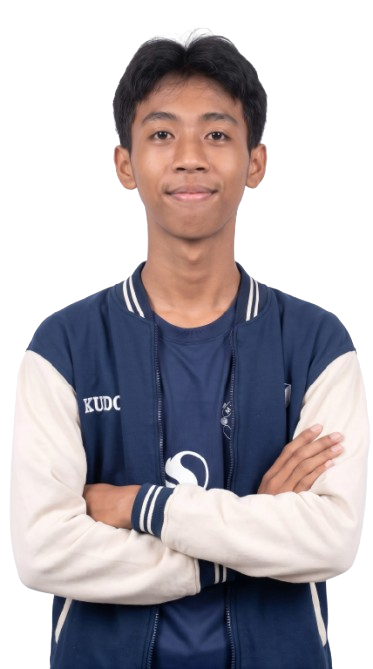
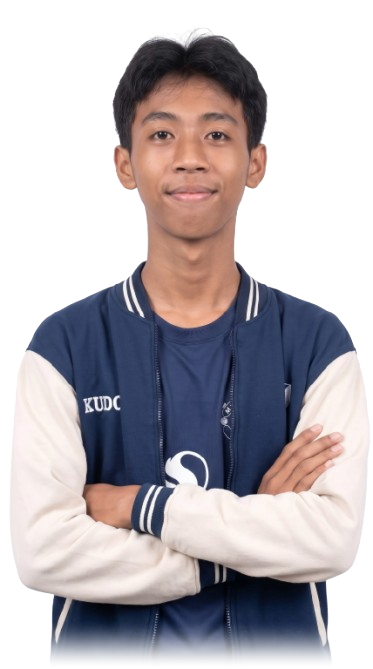
fix(ui): eliminate profile shadow clipping, remove top badge, soften celestial canvas contrast, and enlarge hero typography

Changed region(s): [[0.118, 0.9268, 0.9142, 1.0]]

diff --git a/components/sections/HeroSection.tsx b/components/sections/HeroSection.tsx
@@ -48,18 +48,12 @@ export const HeroSection: React.FC<HeroSectionProps> = ({ profile }) => {
       <div className="relative max-w-6xl mx-auto px-4 sm:px-6 lg:px-8 w-full">
         <div className="grid grid-cols-1 lg:grid-cols-12 gap-6 lg:gap-8 items-end">
           {/* Kolom Kiri: Tentang Saya & Profil Personal (Render Instan untuk Skor LCP Mobile <1.8s) */}
-          <div className="lg:col-span-7 flex flex-col items-start z-10 space-y-4 sm:space-y-5 self-center pt-2 pb-6 sm:pb-8">
-            {/* Status Ketersediaan Kerja (Sinyal Positif untuk HRD & Tech Recruiter) */}
-            <div className="inline-flex items-center gap-2 px-3 py-1 rounded-full bg-emerald-500/10 border border-emerald-500/30 text-emerald-700 dark:text-emerald-400 text-[10px] sm:text-[11px] font-mono font-semibold tracking-wider select-none shadow-sm backdrop-blur-sm">
-              <span className="relative flex h-2 w-2">
-                <span className="animate-ping absolute inline-flex h-full w-full rounded-full bg-emerald-400 opacity-75" />
-                <span className="relative inline-flex rounded-full h-2 w-2 bg-emerald-500" />
-              </span>
-              <span>TERBUKA UNTUK MAGANG &amp; KERJA • DEPOK / JAKARTA &amp; REMOTE</span>
-            </div>
+          <div className="lg:col-span-7 flex flex-col items-start z-10 space-y-4 sm:space-y-6 self-center pt-2 pb-6 sm:pb-8 relative">
+            {/* Subtle Readability Ambient Backlight: menjaga keterbacaan teks tanpa menutupi estetika kosmik */}
+            <div className="absolute -inset-4 sm:-inset-6 bg-white/40 dark:bg-void-950/35 rounded-3xl blur-2xl -z-10 pointer-events-none" />
 
             {/* Nama & Subjudul Tipografi Cinzel Serasi */}
-            <div className="space-y-1">
+            <div className="space-y-1.5">
               <h1
                 onClick={() => {
                   if (typeof window !== 'undefined') {
@@ -67,82 +61,82 @@ export const HeroSection: React.FC<HeroSectionProps> = ({ profile }) => {
                     window.dispatchEvent(new CustomEvent('trigger-splash'));
                   }
                 }}
-                className="text-4xl sm:text-5xl lg:text-6xl font-serif font-extrabold text-brass dark:text-parchment tracking-tight cursor-pointer hover:opacity-90 transition-opacity select-none"
+                className="text-5xl sm:text-6xl lg:text-7xl font-serif font-extrabold text-brass dark:text-parchment tracking-tight cursor-pointer hover:opacity-90 transition-opacity select-none"
                 title="Tampilkan Animasi Splash"
               >
                 {profile.name}
               </h1>
-              <p className="font-serif text-xs sm:text-sm font-medium tracking-[0.25em] uppercase text-brass dark:text-brass-light">
+              <p className="font-serif text-sm sm:text-base font-semibold tracking-[0.25em] uppercase text-brass dark:text-brass-light">
                 {profile.title || 'Software Engineer & Web Developer'}
               </p>
             </div>
 
             {/* Narasi Biografi Tentang Saya (Lugas & Autentik) */}
-            <div className="space-y-2.5 text-sm sm:text-base text-parchment-dim font-sans leading-relaxed max-w-xl">
+            <div className="space-y-3 text-base sm:text-lg text-parchment-dim font-sans leading-relaxed max-w-xl">
               {profile.bio && profile.bio.length > 0 ? (
                 profile.bio.map((para, idx) => (
-                  <p key={idx} className="relative pl-4 border-l border-brass/30">
+                  <p key={idx} className="relative pl-4 border-l-2 border-brass/40">
                     {para}
                   </p>
                 ))
               ) : (
-                <p className="relative pl-4 border-l border-brass/30">
+                <p className="relative pl-4 border-l-2 border-brass/40">
                   Hello, Saya Muhammad Dzikry Fikry, seorang Software Engineer &amp; Web Developer yang berfokus pada pengembangan sistem web full-stack, integrasi CMS modern, serta arsitektur backend yang rapi dan terukur.
                 </p>
               )}
             </div>
 
             {/* Tombol Aksi (Kapsul Melengkung Halus & Kontras Tinggi) */}
-            <div className="pt-1 flex flex-col sm:flex-row flex-wrap items-stretch sm:items-center gap-3 sm:gap-4 w-full">
+            <div className="pt-2 flex flex-col sm:flex-row flex-wrap items-stretch sm:items-center gap-3.5 sm:gap-4 w-full">
               <Link
                 href="/proyek"
                 onClick={handleExploreProjects}
-                className="group inline-flex items-center justify-center gap-2 px-6 py-2.5 sm:px-7 sm:py-3 rounded-full border border-brass bg-brass text-white dark:text-void-950 font-mono text-xs font-bold uppercase tracking-widest hover:bg-brass-light transition-all duration-200 shadow-brass-glow active:scale-95"
+                className="group inline-flex items-center justify-center gap-2 px-7 py-3 sm:px-8 sm:py-3.5 rounded-full border border-brass bg-brass text-white dark:text-void-950 font-mono text-xs sm:text-sm font-bold uppercase tracking-widest hover:bg-brass-light transition-all duration-200 shadow-brass-glow active:scale-95"
               >
                 <span>LIHAT PROYEK</span>
-                <ArrowRight className="w-4 h-4 transition-transform group-hover:translate-x-1" />
+                <ArrowRight className="w-4 h-4 sm:w-4.5 sm:h-4.5 transition-transform group-hover:translate-x-1" />
               </Link>
 
               <a
                 href={mailtoHref}
-                className="inline-flex items-center justify-center gap-2 px-6 py-2.5 sm:px-7 sm:py-3 rounded-full border border-brass/50 bg-white dark:bg-black text-slate-900 dark:text-parchment font-mono text-xs font-bold uppercase tracking-widest hover:border-brass hover:text-brass transition-all duration-200 shadow-sm dark:shadow-md dark:shadow-black active:scale-95"
+                className="inline-flex items-center justify-center gap-2 px-7 py-3 sm:px-8 sm:py-3.5 rounded-full border border-brass/50 bg-white dark:bg-black text-slate-900 dark:text-parchment font-mono text-xs sm:text-sm font-bold uppercase tracking-widest hover:border-brass hover:text-brass transition-all duration-200 shadow-sm dark:shadow-md dark:shadow-black active:scale-95"
               >
-                <Mail className="w-4 h-4 text-brass" />
+                <Mail className="w-4 h-4 sm:w-4.5 sm:h-4.5 text-brass" />
                 <span>HUBUNGI SAYA</span>
               </a>
             </div>
 
             {/* Deretan Link Ikonik Minimalis (GitHub, LinkedIn, Email) */}
-            <div className="pt-1 flex flex-wrap items-center gap-2 sm:gap-2.5 text-parchment-dim font-mono text-xs">
+            <div className="pt-1.5 flex flex-wrap items-center gap-2.5 sm:gap-3 text-parchment-dim font-mono text-xs sm:text-sm">
               <a
                 href={githubUrl}
                 target="_blank"
                 rel="noopener noreferrer"
-                className="group inline-flex items-center gap-2 px-3.5 py-1.5 rounded-full border border-brass/25 bg-white/70 dark:bg-void-950/70 hover:border-brass hover:bg-brass/10 hover:text-brass transition-all duration-200 shadow-sm"
+                className="group inline-flex items-center gap-2 px-4 py-2 rounded-full border border-brass/25 bg-white/70 dark:bg-void-950/70 hover:border-brass hover:bg-brass/10 hover:text-brass transition-all duration-200 shadow-sm"
                 title="Profil GitHub"
               >
-                <Github className="w-3.5 h-3.5 text-brass group-hover:scale-110 transition-transform" />
-                <span className="font-semibold text-[11px] tracking-wider uppercase">GitHub</span>
+                <Github className="w-4 h-4 text-brass group-hover:scale-110 transition-transform" />
+                <span className="font-semibold text-xs tracking-wider uppercase">GitHub</span>
               </a>
 
               <a
                 href={linkedinUrl}
                 target="_blank"
                 rel="noopener noreferrer"
-                className="group inline-flex items-center gap-2 px-3.5 py-1.5 rounded-full border border-brass/25 bg-white/70 dark:bg-void-950/70 hover:border-brass hover:bg-brass/10 hover:text-brass transition-all duration-200 shadow-sm"
+                className="group inline-flex items-center gap-2 px-4 py-2 rounded-full border border-brass/25 bg-white/70 dark:bg-void-950/70 hover:border-brass hover:bg-brass/10 hover:text-brass transition-all duration-200 shadow-sm"
                 title="Profil LinkedIn"
               >
-                <Linkedin className="w-3.5 h-3.5 text-brass group-hover:scale-110 transition-transform" />
-                <span className="font-semibold text-[11px] tracking-wider uppercase">LinkedIn</span>
+                <Linkedin className="w-4 h-4 text-brass group-hover:scale-110 transition-transform" />
+                <span className="font-semibold text-xs tracking-wider uppercase">LinkedIn</span>
               </a>
 
               <a
                 href={mailtoHref}
-                className="group inline-flex items-center gap-2 px-3.5 py-1.5 rounded-full border border-brass/25 bg-white/70 dark:bg-void-950/70 hover:border-brass hover:bg-brass/10 hover:text-brass transition-all duration-200 shadow-sm"
+                className="group inline-flex items-center gap-2 px-4 py-2 rounded-full border border-brass/25 bg-white/70 dark:bg-void-950/70 hover:border-brass hover:bg-brass/10 hover:text-brass transition-all duration-200 shadow-sm"
                 title="Kirim Email"
               >
-                <Mail className="w-3.5 h-3.5 text-brass group-hover:scale-110 transition-transform" />
-                <span className="font-semibold text-[11px] tracking-wider uppercase">Email</span>
+                <Mail className="w-4 h-4 text-brass group-hover:scale-110 transition-transform" />
+                <span className="font-semibold text-xs tracking-wider uppercase">Email</span>
               </a>
             </div>
           </div>

diff --git a/components/celestial/MilkyWayGalaxy.tsx b/components/celestial/MilkyWayGalaxy.tsx
@@ -565,7 +565,7 @@ export const MilkyWayGalaxy: React.FC<MilkyWayGalaxyProps> = ({
       // Garis Orbit Utama Bumi (Dengan Penanda Musim Kardinal)
       ctx.beginPath();
       ctx.ellipse(0, 0, baseRx, baseRy, 0, 0, Math.PI * 2);
-      ctx.strokeStyle = isLight ? 'rgba(2, 132, 199, 0.38)' : 'rgba(197, 160, 89, 0.25)';
+      ctx.strokeStyle = isLight ? 'rgba(2, 132, 199, 0.20)' : 'rgba(197, 160, 89, 0.25)';
       ctx.lineWidth = 1;
       ctx.setLineDash([4, 6]);
       ctx.stroke();
@@ -580,7 +580,7 @@ export const MilkyWayGalaxy: React.FC<MilkyWayGalaxyProps> = ({
       ];
 
       ctx.font = '8px "Cinzel", serif';
-      ctx.fillStyle = isLight ? 'rgba(2, 132, 199, 0.85)' : 'rgba(197, 160, 89, 0.45)';
+      ctx.fillStyle = isLight ? 'rgba(2, 132, 199, 0.40)' : 'rgba(197, 160, 89, 0.45)';
       ctx.textAlign = 'center';
       for (const m of markers) {
         const mx = Math.cos(m.angle) * baseRx;
@@ -634,14 +634,14 @@ export const MilkyWayGalaxy: React.FC<MilkyWayGalaxyProps> = ({
         ctx.stroke();
       }
 
-      // Sun Label & Jarak dari Bumi (1.00 AU)
-      ctx.font = 'bold 10px "Cinzel", serif';
-      ctx.fillStyle = isLight ? '#B45309' : '#FDE68A';
+      // Sun Label & Jarak dari Bumi (1.00 AU) - lembut dan tidak mengganggu konten teks
+      ctx.font = 'bold 9.5px "Cinzel", serif';
+      ctx.fillStyle = isLight ? 'rgba(180, 83, 9, 0.50)' : '#FDE68A';
       ctx.textAlign = 'center';
       ctx.fillText('MATAHARI', 0, sunRadius + 18);
 
-      ctx.font = '8px "Cinzel", serif';
-      ctx.fillStyle = isLight ? 'rgba(120, 53, 15, 0.85)' : 'rgba(230, 202, 126, 0.75)';
+      ctx.font = '7.5px "Cinzel", serif';
+      ctx.fillStyle = isLight ? 'rgba(120, 53, 15, 0.40)' : 'rgba(230, 202, 126, 0.65)';
       ctx.fillText('1.00 AU DARI BUMI', 0, sunRadius + 29);
 
       // ------------------------------------------
@@ -1293,15 +1293,18 @@ export const MilkyWayGalaxy: React.FC<MilkyWayGalaxyProps> = ({
           ctx.stroke();
         }
 
-        // Label Planet dan Jarak Real-Time dari Bumi
+        // Label Planet dan Jarak Real-Time dari Bumi (Soft di mode Light agar tidak menabrak teks Hero)
+        ctx.save();
+        if (isLight) ctx.globalAlpha = 0.55;
         ctx.font = 'bold 8px "Cinzel", serif';
         ctx.fillStyle = isLight ? p.lightTextColor : p.darkTextColor;
         ctx.textAlign = 'center';
         ctx.fillText(p.name, 0, p.radius + 14);
 
         ctx.font = '6.5px "Cinzel", serif';
-        ctx.fillStyle = isLight ? 'rgba(51, 65, 85, 0.75)' : 'rgba(230, 202, 126, 0.65)';
+        ctx.fillStyle = isLight ? 'rgba(51, 65, 85, 0.70)' : 'rgba(230, 202, 126, 0.65)';
         ctx.fillText(distText, 0, p.radius + 23);
+        ctx.restore();
 
         ctx.restore();
       });
@@ -1463,14 +1466,17 @@ export const MilkyWayGalaxy: React.FC<MilkyWayGalaxyProps> = ({
       ctx.shadowBlur = 0;
 
       // Label Bumi
+      ctx.save();
+      if (isLight) ctx.globalAlpha = 0.55;
       ctx.font = 'bold 9px "Cinzel", serif';
       ctx.fillStyle = isLight ? '#0369A1' : '#7DD3FC';
       ctx.textAlign = 'center';
       ctx.fillText('BUMI', 0, earthRadius + 15);
 
       ctx.font = '7px "Cinzel", serif';
-      ctx.fillStyle = isLight ? 'rgba(55, 65, 81, 0.85)' : 'rgba(237, 231, 216, 0.7)';
+      ctx.fillStyle = isLight ? 'rgba(55, 65, 81, 0.75)' : 'rgba(237, 231, 216, 0.7)';
       ctx.fillText('ROTASI: 23.5°', 0, earthRadius + 24);
+      ctx.restore();
 
       ctx.restore(); // Akhir transformasi Bumi
       ctx.restore(); // Akhir transformasi Orbit Pusat Matahari

diff --git a/components/celestial/HeroPortrait.tsx b/components/celestial/HeroPortrait.tsx
@@ -20,10 +20,10 @@ export const HeroPortrait: React.FC<HeroPortraitProps> = ({ profile }) => {
 
   return (
     <div className="relative w-full flex items-end justify-center lg:justify-end self-end pointer-events-none select-none">
-      {/* Frameless Cutout Image Container dengan padding lapang agar shadow tidak terpotong & CSS Gradient Mask pada bagian bawah */}
+      {/* Frameless Cutout Image Container: bebas mask-image & overflow-visible agar shadow tidak terpotong garis horizontal */}
       <motion.div
         style={{ y: yParallax }}
-        className="relative w-full max-w-[320px] sm:max-w-[380px] md:max-w-[420px] lg:max-w-[460px] flex items-end justify-center lg:justify-end pt-8 sm:pt-10 px-6 sm:px-8 pb-0 [mask-image:linear-gradient(to_bottom,black_80%,transparent_100%)] [-webkit-mask-image:linear-gradient(to_bottom,black_80%,transparent_100%)]"
+        className="relative w-full max-w-[320px] sm:max-w-[380px] md:max-w-[420px] lg:max-w-[460px] flex items-end justify-center lg:justify-end pb-0 overflow-visible"
       >
         <Image
           src={imgSrc}
@@ -38,7 +38,7 @@ export const HeroPortrait: React.FC<HeroPortraitProps> = ({ profile }) => {
               setImgSrc('/profile.png');
             }
           }}
-          className="w-full h-auto max-h-[390px] sm:max-h-[440px] md:max-h-[480px] lg:max-h-[510px] object-contain object-bottom drop-shadow-[0_10px_20px_rgba(2,132,199,0.18)] drop-shadow-[0_16px_30px_rgba(15,23,42,0.12)] dark:drop-shadow-[0_16px_35px_rgba(0,0,0,0.7)] dark:drop-shadow-[0_0_30px_rgba(197,160,89,0.12)]"
+          className="w-full h-auto max-h-[390px] sm:max-h-[440px] md:max-h-[480px] lg:max-h-[510px] object-contain object-bottom drop-shadow-[0_8px_20px_rgba(2,132,199,0.14)] drop-shadow-[0_16px_30px_rgba(15,23,42,0.08)] dark:drop-shadow-[0_16px_35px_rgba(0,0,0,0.7)] dark:drop-shadow-[0_0_30px_rgba(197,160,89,0.14)]"
         />
       </motion.div>
     </div>

diff --git a/components/sections/TechStackSection.tsx b/components/sections/TechStackSection.tsx
@@ -51,7 +51,7 @@ export const TechStackSection: React.FC<TechStackSectionProps> = ({ techStack })
   return (
     <section
       id="tech-stack"
-      className="relative py-4 sm:py-5 border-y border-brass/15 bg-white/[0.02] dark:bg-void-950/[0.25] backdrop-blur-[2px] overflow-hidden select-none"
+      className="relative py-4 sm:py-5 border-y border-brass/15 bg-white/[0.02] dark:bg-void-950/[0.25] overflow-hidden select-none"
     >
       {/* Marquee Ticker 1 Baris Otomatis Bergerak Mulus dari Kanan ke Kiri Tanpa Judul & Deskripsi */}
       <motion.div
